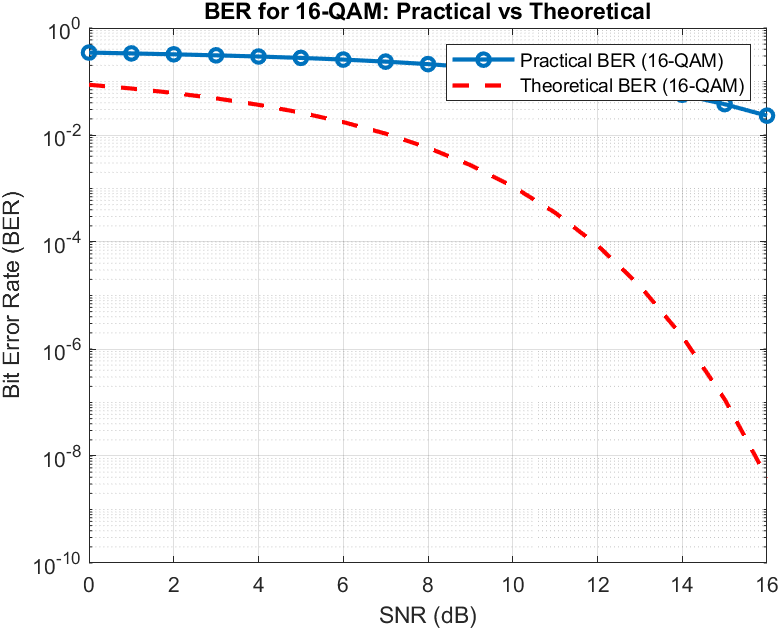
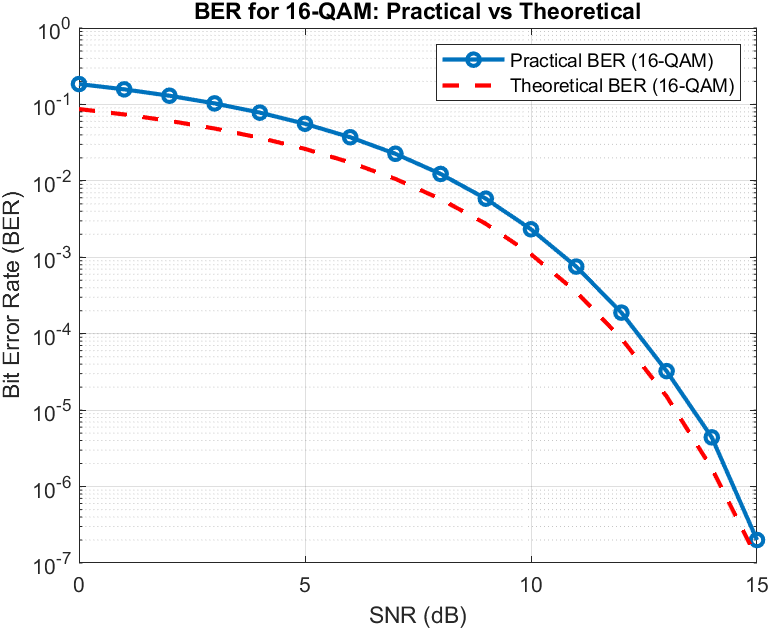
Исправил ошибку в генераторе добавив преобразования EbNo  в SNR избавился от лишней функции и добавил скалирование на 1/sqrt(2)

diff --git a/awgn_generator.cpp b/awgn_generator.cpp
@@ -1,29 +1,18 @@
 #include "awgn_generator.h"
 #include <cmath>
 
-AWGNGenerator::AWGNGenerator(double snrDb, unsigned int seed) : snrDb(snrDb), generator(seed) {}
-
-double AWGNGenerator::calculateNoisePower(double signalPower) {
-    // Преобразуем SNR из дБ в линейную шкалу
-    double snrLinear = std::pow(10, snrDb / 10.0);
-    return signalPower / snrLinear;  // Мощность шума
-}
+AWGNGenerator::AWGNGenerator(double EbNo, unsigned int seed, double M) : EbNo(EbNo), generator(seed), M(std::log2(M)) {}
 
 std::vector<std::complex<double>> AWGNGenerator::addNoise(const std::vector<std::complex<double>>& signal) {
     std::vector<std::complex<double>> noisySignal = signal;
 
-    // Рассчитываем среднюю мощность сигнала
-    double signalPower = 0.0;
-    for (const auto& s : signal) {
-        signalPower += std::norm(s);  // Мощность сигнала — квадрат амплитуды
-    }
-    signalPower /= signal.size();  // Усредненная мощность сигнала
+    // Переводим отношение Eb/No (энергия бита к спектральной плотности шума) в SNR для символа
+    // M — количество бит на символ (например, в 8-QAM M=3 16-QAM M =4, так как 3 и 4 бита на символ (берется log2(M)))
+    double snrdb = EbNo + 10 * std::log10(M);
 
-    // Рассчитываем мощность шума
-    double noisePower = calculateNoisePower(signalPower);
-
-    // Генерируем белый гауссовский шум
-    std::normal_distribution<double> distribution(0.0, std::sqrt(noisePower));
+    // Генерируем белый гауссовский шум с нулевым средним и рассчитанным стандартным отклонением
+    // Преобразуем snrdb в линейную шкалу и делим на 2, чтобы учесть реальную и мнимую компоненты (скалируем)
+    std::normal_distribution<double> distribution(0.0, std::sqrt(1 / (2 * std::pow(10, snrdb / 10))));//noisePower));
 
     for (auto& s : noisySignal) {
         double noiseReal = distribution(generator);

diff --git a/main.cpp b/main.cpp
@@ -89,16 +89,17 @@ int main() {
     outputFile16 << "SNR(dB) Errors Practical_BER" << std::endl;
     outputFile64 << "SNR(dB) Errors Practical_BER" << std::endl;
 
-    for (double snr_db = 0.0; snr_db <= 16.0; snr_db += 1.0) {
+    for (double snr_db = 0.0; snr_db <= 15.0; snr_db += 1.0) {
         // Создаем генератор белого гауссовского шума с заданным SNR
-        AWGNGenerator noiseGen(snr_db, 67);
+        AWGNGenerator noiseGen16(snr_db, 67,16);
+        AWGNGenerator noiseGen64(snr_db, 67,64);
         //модулируем сигнал
         auto modulatedSignal_16 = mod16.modulate(inputBits);
         auto modulatedSignal_64 = mod64.modulate(inputBits);
 
         // Добавляем шум к модулированному сигналу
-        auto noisySignal_16 = noiseGen.addNoise(modulatedSignal_16);
-        auto noisySignal_64 = noiseGen.addNoise(modulatedSignal_64);
+        auto noisySignal_16 = noiseGen16.addNoise(modulatedSignal_16);
+        auto noisySignal_64 = noiseGen64.addNoise(modulatedSignal_64);
 
         // Демодулируем сигнал
         auto demodulatedSignal_16 = demod16.demodulate(noisySignal_16);

diff --git a/awgn_generator.h b/awgn_generator.h
@@ -8,15 +8,15 @@
 class AWGNGenerator {
 public:
     // Конструктор, принимающий SNR и начальное значение для генератора случайных чисел
-    AWGNGenerator(double snrDb, unsigned int seed);
+    AWGNGenerator(double EbNo, unsigned int seed , double M);
 
     // Метод добавления шума к входному сигналу
     std::vector<std::complex<double>> addNoise(const std::vector<std::complex<double>>& signal);
 
 private:
-    double snrDb;  // SNR в дБ
+    double EbNo;  // SNR в дБ
+    double M; //какой тип модуляции 16 или 64 и берется логарифм чтобы узнать количество бит
     std::default_random_engine generator;  // Генератор случайных чисел
-    double calculateNoisePower(double signalPower);  // Расчет мощности шума
 };
 
 #endif // AWGN_GENERATOR_H
